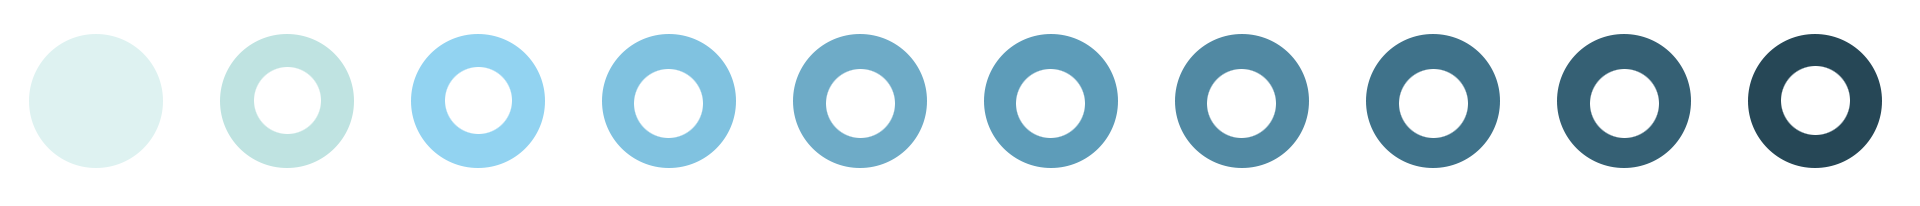
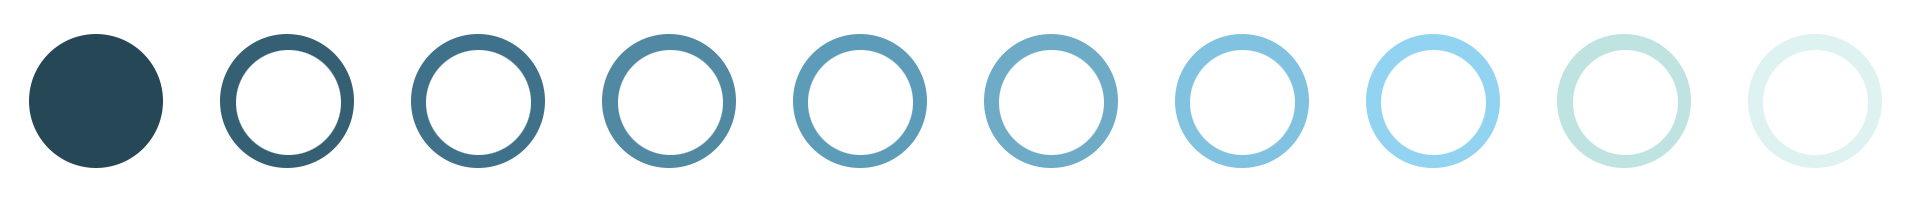
flipped the chart in aptitude section

Changed region(s): [[0.3125, 0.1456, 0.7812, 0.8155], [0.0, 0.1456, 0.2812, 0.8155], [0.8125, 0.1456, 1.0, 0.8155]]

diff --git a/Kent Charles.html b/Kent Charles.html
@@ -266,7 +266,7 @@
 
 				<tr><br>
 				<td id="skill"> Photoshop </td>
-				<td> <img src="img/rate.png" width=400px> </td>
+				<td> <img src="img/10.png" width=400px> </td>
 				</tr>
 
 				<tr>
